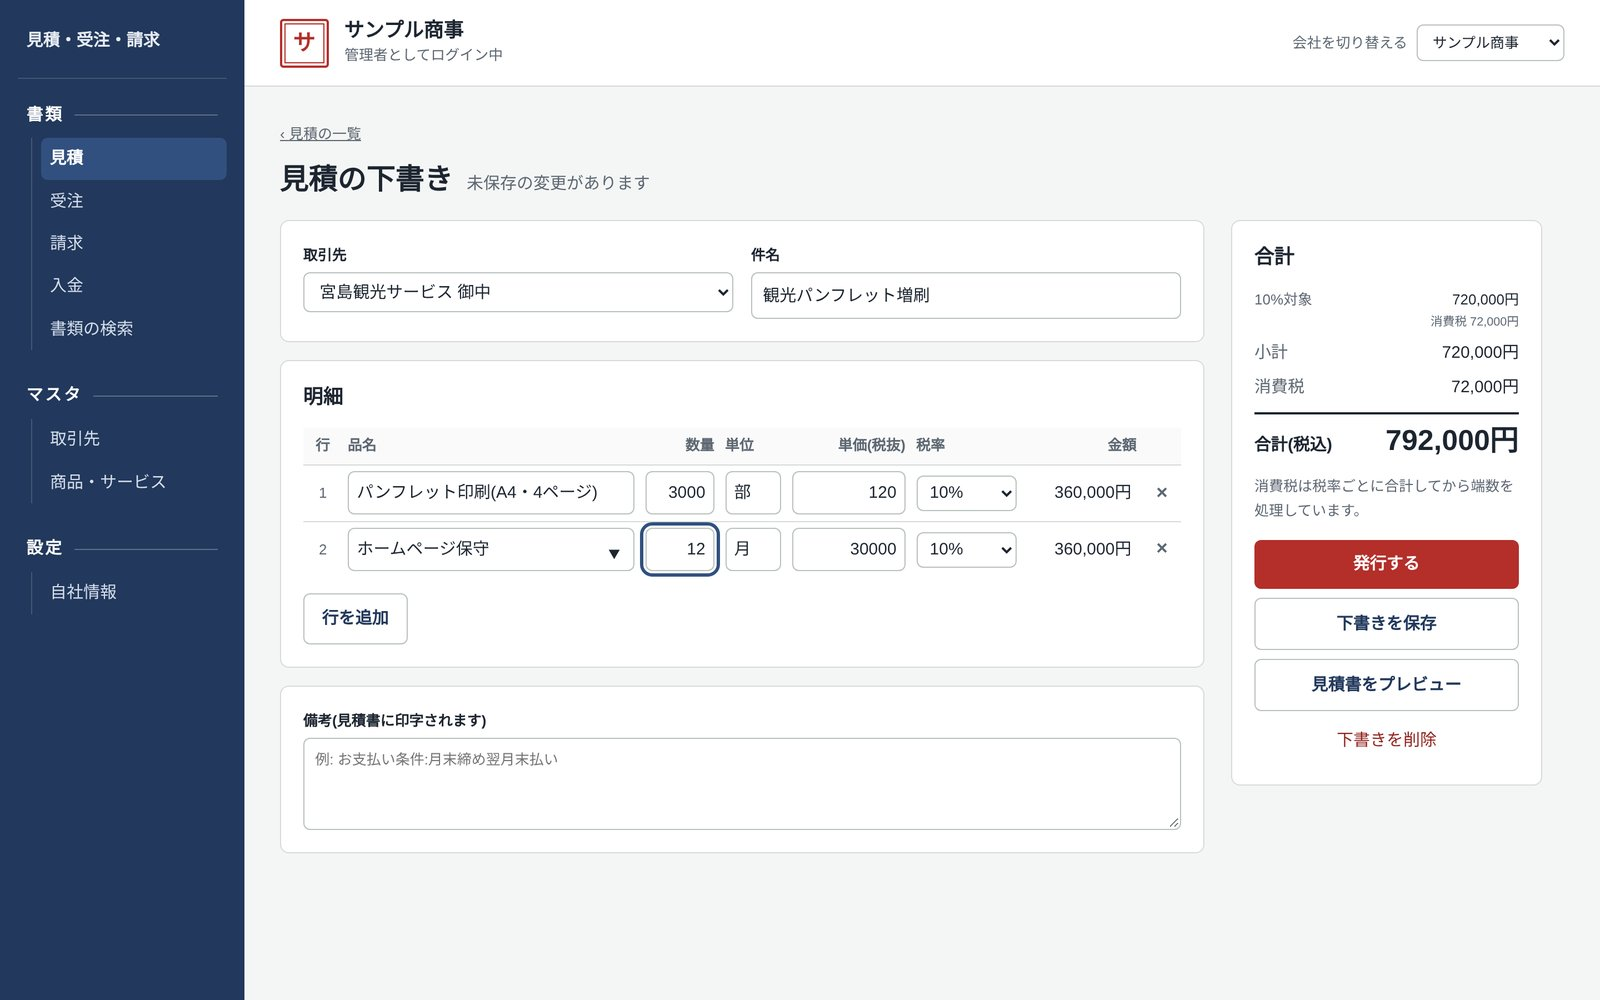
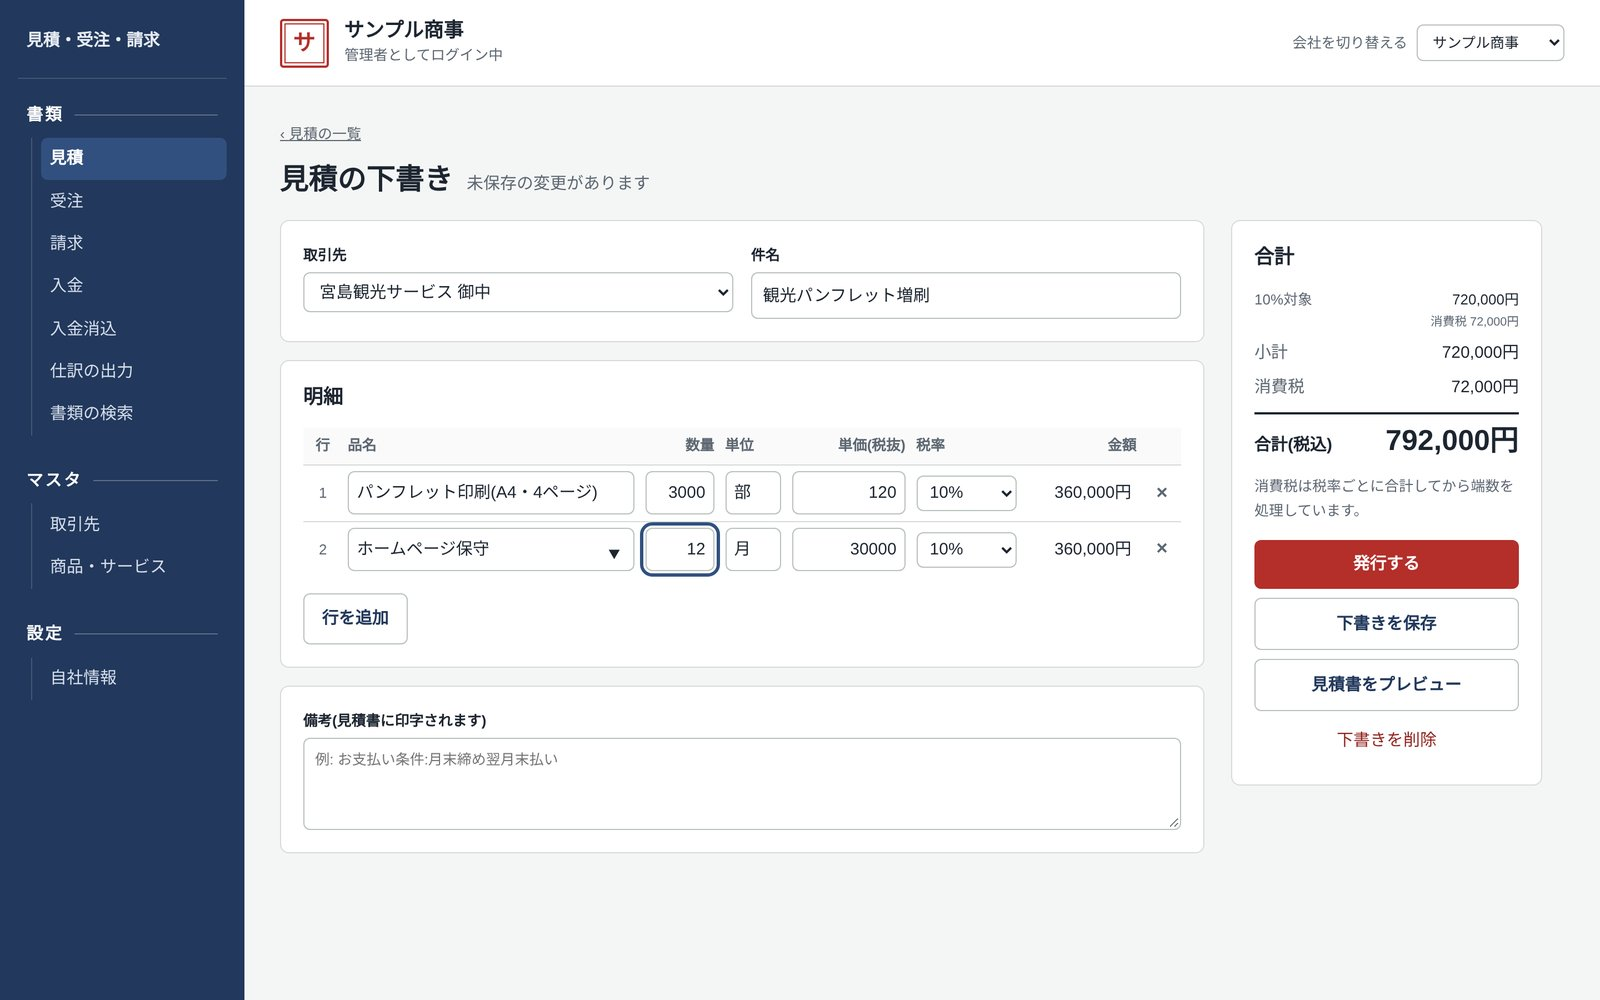
見積・受注・請求アプリに入金消込と仕訳CSVを追加

Changed region(s): [[0.0, 0.31, 0.0938, 0.682]]

diff --git a/index.html b/index.html
@@ -82,7 +82,7 @@ nav.site a:hover{color:var(--ai)}
 /* works */
 .work{margin:0 0 96px}
 .work:last-child{margin-bottom:0}
-.shots{display:grid;grid-template-columns:repeat(auto-fill,minmax(240px,1fr));gap:28px 24px}
+.shots{display:grid;grid-template-columns:repeat(auto-fill,minmax(280px,1fr));gap:28px 24px}
 .shots-note{font-size:12px;color:var(--faint);margin:10px 0 0;letter-spacing:.06em}
 /* 画像の枠は縦横比16:10にそろえ、画像は枠の中に収める(縦長・横長の画面でも枠の大きさは同じ) */
 .shot{margin:0}
@@ -211,7 +211,7 @@ footer .wrap{display:flex;justify-content:space-between;padding-top:28px;padding
           </div>
           <div class="shots" data-shots="smeShots"></div>
           <p class="shots-note">画面はすべて架空のデータです。画像をクリックすると拡大して開きます</p>
-          <p class="problem">中小企業の見積から請求までは、Excelの書式と手作業の転記で回っていることが多く、インボイス制度や電子帳簿保存法への対応も負担になっています。見積を受注へ、受注を請求書へと引き継ぎ、月締めのまとめ請求と入金の管理までを一つの流れにしました。同じコードのまま、複数の会社で共有するサービスとしても、会社ごとの専用環境としても動かせる構成です。</p>
+          <p class="problem">中小企業の見積から請求までは、Excelの書式と手作業の転記で回っていることが多く、インボイス制度や電子帳簿保存法への対応も負担になっています。見積を受注へ、受注を請求書へと引き継ぎ、月締めのまとめ請求、銀行の明細を使った入金消込、会計ソフトへの仕訳の受け渡しまでを一つの流れにしました。同じコードのまま、複数の会社で共有するサービスとしても、会社ごとの専用環境としても動かせる構成です。</p>
           <ul class="tags"><li>Python</li><li>FastAPI</li><li>React</li><li>TypeScript</li><li>PostgreSQL</li><li>Docker</li></ul>
           <div class="links">
             <a class="btn" data-href="smeRepo" target="_blank" rel="noopener">GitHubで見る</a>
@@ -225,6 +225,8 @@ footer .wrap{display:flex;justify-content:space-between;padding-top:28px;padding
                 <ul>
                   <li>見積・受注・請求の引き継ぎと、見積書・注文請書・請求書のPDF発行</li>
                   <li>取引先ごとの締め日による月締めのまとめ請求、繰越の表示、一部入金とまとめ入金</li>
+                  <li>銀行の入出金明細(CSV)を取り込み、振込名義と金額から請求書の候補を出す入金消込。振込手数料を差し引いた入金にも対応</li>
+                  <li>勘定奉行・弥生会計・freee会計・マネーフォワード クラウド会計の取り込み形式での仕訳CSVの出力</li>
                   <li>商品・サービスマスタからの明細入力</li>
                   <li>個人事業主への対応(屋号の印字、免税事業者、源泉徴収)</li>
                   <li>解約に備えた、全データのCSVと控えPDFの一括書き出し</li>
@@ -236,7 +238,9 @@ footer .wrap{display:flex;justify-content:space-between;padding-top:28px;padding
                   <li>会社ごとのデータを、APIの確認とデータベースの行単位の権限の二重で分けた</li>
                   <li>消費税は税率ごとに1回だけ端数を処理し、登録番号と取引日を載せたインボイス対応の請求書にした</li>
                   <li>発行した書類は控えのPDFとハッシュ値を残し、変更や削除をデータベースで禁止した。日付・金額・取引先で検索できる(電子帳簿保存法を想定)</li>
-                  <li>同時に操作しても二重に請求されないようにし、106件の自動テストで確かめた</li>
+                  <li>銀行ごとに違う明細の列の並び・文字コード・和暦の日付を吸収し、振込名義は半角カナや「カ)」などの法人の略語をそろえて照合した</li>
+                  <li>仕訳は出力済みを記録して二重計上を防ぎ、出力後に訂正・取消した請求書や入金は逆仕訳で打ち消すようにした</li>
+                  <li>同時に操作しても二重に請求されないようにし、163件の自動テストで確かめた</li>
                 </ul>
               </div>
             </div>
@@ -371,7 +375,7 @@ footer .wrap{display:flex;justify-content:space-between;padding-top:28px;padding
           <span class="when">2026年11月〜</span>
           <div>
             <h3>見積・受注・請求アプリ</h3>
-            <p>経理の実務経験をもとに、中小企業の見積から請求・入金までをつなぐ業務アプリを開発しています。</p>
+            <p>経理の実務経験をもとに、中小企業の見積から請求・入金消込・会計ソフトへの仕訳の受け渡しまでをつなぐ業務アプリを開発しています。</p>
           </div>
         </div>
       </div>
@@ -443,7 +447,8 @@ const CONFIG = {
   smeShots: [
     { src: "images/sme-quote.jpg", label: "見積の作成" },
     { src: "images/sme-invoice-pdf.jpg", label: "請求書PDF" },
-    { src: "images/sme-settings.jpg", label: "自社情報(管理者)" }
+    { src: "images/sme-reconcile.jpg", label: "入金消込" },
+    { src: "images/sme-journal.jpg", label: "仕訳の出力" }
   ],
   portalShots: [
     { src: "images/portal-app.png", label: "社員画面" },
